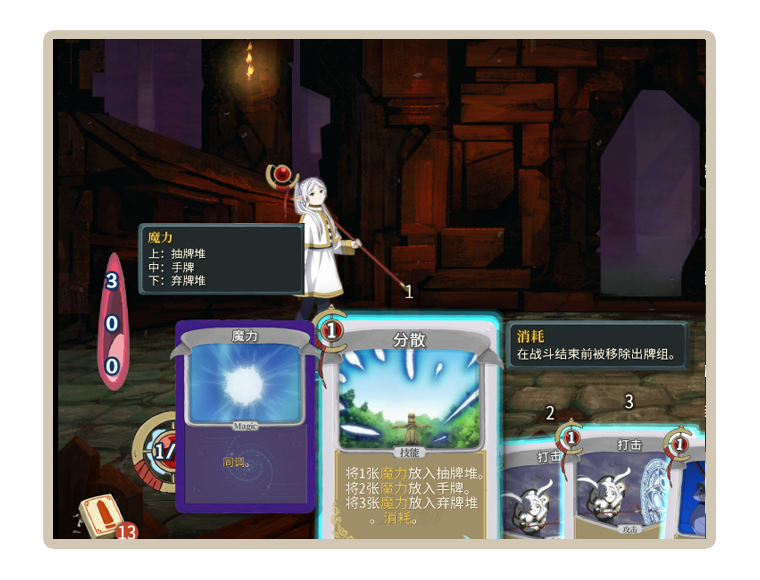
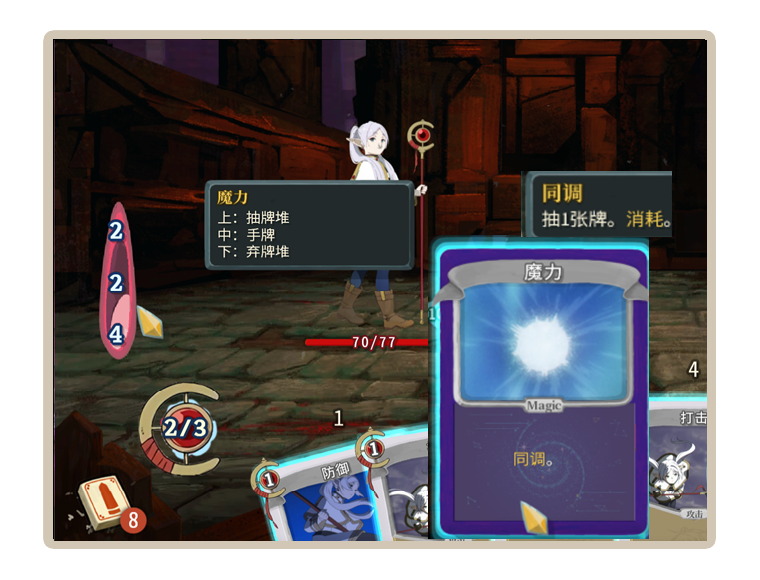
教学重做

diff --git a/src/main/java/FrierenMod/events/ReadingGrimoireEvent.java b/src/main/java/FrierenMod/events/ReadingGrimoireEvent.java
@@ -1,9 +1,11 @@
 package FrierenMod.events;
 
 import FrierenMod.cards.magicItems.AbstractMagicItem;
+import FrierenMod.cards.magicItems.props.Tutorial;
 import FrierenMod.cards.magicItems.props.UnbelievableTool;
 import FrierenMod.effects.FastMagicItemObtainEffect;
 import FrierenMod.gameHelpers.CardPoolHelper;
+import FrierenMod.utils.Config;
 import FrierenMod.utils.ModInformation;
 import basemod.ReflectionHacks;
 import com.megacrit.cardcrawl.core.CardCrawlGame;
@@ -11,6 +13,7 @@ import com.megacrit.cardcrawl.dungeons.AbstractDungeon;
 import com.megacrit.cardcrawl.events.AbstractImageEvent;
 import com.megacrit.cardcrawl.events.GenericEventDialog;
 import com.megacrit.cardcrawl.events.RoomEventDialog;
+import com.megacrit.cardcrawl.helpers.TipTracker;
 import com.megacrit.cardcrawl.localization.EventStrings;
 import com.megacrit.cardcrawl.map.MapRoomNode;
 import com.megacrit.cardcrawl.neow.NeowEvent;
@@ -18,6 +21,8 @@ import com.megacrit.cardcrawl.neow.NeowRoom;
 import com.megacrit.cardcrawl.screens.CardRewardScreen;
 import com.megacrit.cardcrawl.vfx.AbstractGameEffect;
 import com.megacrit.cardcrawl.vfx.InfiniteSpeechBubble;
+
+import static FrierenMod.utils.FTUEUtils.COMBAT_TIP_KEY;
 
 public class ReadingGrimoireEvent extends AbstractImageEvent {
     public static String ID = ModInformation.makeID(ReadingGrimoireEvent.class.getSimpleName());
@@ -49,7 +54,7 @@ public class ReadingGrimoireEvent extends AbstractImageEvent {
                     this.imageEventText.clearAllDialogs();
                     this.imageEventText.setDialogOption(EVENT_STRINGS.OPTIONS[1]);
                     AbstractDungeon.cardRewardScreen.chooseOneOpen(CardPoolHelper.getBasicMagicItems(0));
-                    ReflectionHacks.setPrivate(AbstractDungeon.cardRewardScreen, CardRewardScreen.class,"chooseOne",false);
+                    ReflectionHacks.setPrivate(AbstractDungeon.cardRewardScreen, CardRewardScreen.class, "chooseOne", false);
                     AbstractDungeon.dynamicBanner.hide();
                     AbstractDungeon.dynamicBanner.appear(EVENT_STRINGS.DESCRIPTIONS[4]);
                     return;
@@ -63,7 +68,7 @@ public class ReadingGrimoireEvent extends AbstractImageEvent {
                     this.imageEventText.clearAllDialogs();
                     this.imageEventText.setDialogOption(EVENT_STRINGS.OPTIONS[2]);
                     AbstractDungeon.cardRewardScreen.chooseOneOpen(CardPoolHelper.getBasicMagicItems(1));
-                    ReflectionHacks.setPrivate(AbstractDungeon.cardRewardScreen, CardRewardScreen.class,"chooseOne",false);
+                    ReflectionHacks.setPrivate(AbstractDungeon.cardRewardScreen, CardRewardScreen.class, "chooseOne", false);
                     AbstractDungeon.dynamicBanner.hide();
                     AbstractDungeon.dynamicBanner.appear(EVENT_STRINGS.DESCRIPTIONS[5]);
                     return;
@@ -77,7 +82,7 @@ public class ReadingGrimoireEvent extends AbstractImageEvent {
                     this.imageEventText.clearAllDialogs();
                     this.imageEventText.setDialogOption(EVENT_STRINGS.OPTIONS[3]);
                     AbstractDungeon.cardRewardScreen.chooseOneOpen(CardPoolHelper.getBasicMagicItems(2));
-                    ReflectionHacks.setPrivate(AbstractDungeon.cardRewardScreen, CardRewardScreen.class,"chooseOne",false);
+                    ReflectionHacks.setPrivate(AbstractDungeon.cardRewardScreen, CardRewardScreen.class, "chooseOne", false);
                     AbstractDungeon.dynamicBanner.hide();
                     AbstractDungeon.dynamicBanner.appear(EVENT_STRINGS.DESCRIPTIONS[6]);
                     return;
@@ -85,11 +90,16 @@ public class ReadingGrimoireEvent extends AbstractImageEvent {
                 return;
             case 3:
                 if (buttonPressed == 0) {
-                    this.state = 4;
+                    this.imageEventText.clearAllDialogs();
+                    if (!(Boolean) TipTracker.tips.get(COMBAT_TIP_KEY) || Config.IN_DEV) {
+                        this.state = 5;
+                        this.imageEventText.setDialogOption(EVENT_STRINGS.OPTIONS[5]);
+                    } else {
+                        this.state = 4;
+                        this.imageEventText.setDialogOption(EVENT_STRINGS.OPTIONS[4]);
+                    }
                     this.imageEventText.loadImage("FrierenModResources/img/events/Beta.png");
                     this.imageEventText.updateBodyText(EVENT_STRINGS.DESCRIPTIONS[3]);
-                    this.imageEventText.clearAllDialogs();
-                    this.imageEventText.setDialogOption(EVENT_STRINGS.OPTIONS[4]);
                     AbstractDungeon.effectList.add(new FastMagicItemObtainEffect(new UnbelievableTool()));
                     AbstractDungeon.effectList.add(new FastMagicItemObtainEffect(CardPoolHelper.getRandomMagicItem(AbstractMagicItem.MagicItemRarity.PROP)));
                     return;
@@ -122,6 +132,17 @@ public class ReadingGrimoireEvent extends AbstractImageEvent {
                     AbstractDungeon.getCurrRoom().onPlayerEntry();
                     AbstractDungeon.scene.nextRoom(this.node.room);
                     AbstractDungeon.currMapNode.setRoom(new NeowRoom(false));
+                }
+                return;
+            case 5:
+                if (buttonPressed == 0) {
+                    this.state = 4;
+                    this.imageEventText.loadImage("FrierenModResources/img/events/Beta.png");
+                    this.imageEventText.updateBodyText(EVENT_STRINGS.DESCRIPTIONS[3]);
+                    this.imageEventText.clearAllDialogs();
+                    this.imageEventText.setDialogOption(EVENT_STRINGS.OPTIONS[4]);
+                    AbstractDungeon.effectList.add(new FastMagicItemObtainEffect(new Tutorial()));
+                    return;
                 }
                 return;
         }

diff --git a/src/main/java/FrierenMod/utils/FTUEUtils.java b/src/main/java/FrierenMod/utils/FTUEUtils.java
@@ -1,26 +1,32 @@
 package FrierenMod.utils;
 
-import FrierenMod.utils.ModInformation;
 import basemod.abstracts.CustomMultiPageFtue;
 import com.badlogic.gdx.graphics.Texture;
 import com.megacrit.cardcrawl.core.CardCrawlGame;
+import com.megacrit.cardcrawl.core.Settings;
 import com.megacrit.cardcrawl.dungeons.AbstractDungeon;
 import com.megacrit.cardcrawl.helpers.ImageMaster;
 import com.megacrit.cardcrawl.helpers.TipTracker;
 import com.megacrit.cardcrawl.localization.UIStrings;
-import com.megacrit.cardcrawl.ui.FtueTip;
+
+import static com.megacrit.cardcrawl.core.Settings.language;
 
 public class FTUEUtils {
-    public static final String COMBAT_TIP_KEY = ModInformation.makeID("COMBAT_TIP");
+    public static final String COMBAT_TIP_KEY = ModInformation.makeID("FRIEREN_COMBAT_TIP");
 
     private static final UIStrings uiStrings = CardCrawlGame.languagePack.getUIString(ModInformation.makeID("FTUE"));
 
-    private static final Texture[] TEXTURES = new Texture[] { ImageMaster.loadImage(FrierenRes.TIP_01),
-            ImageMaster.loadImage(FrierenRes.TIP_02) };
+    private static final Texture[] TEXTURES_ZHS = new Texture[]{ImageMaster.loadImage(FrierenRes.TIP_01_ZHS),
+            ImageMaster.loadImage(FrierenRes.TIP_02_ZHS), ImageMaster.loadImage(FrierenRes.TIP_03_ZHS)};
+    private static final Texture[] TEXTURES_ENG = new Texture[]{ImageMaster.loadImage(FrierenRes.TIP_01_ENG),
+            ImageMaster.loadImage(FrierenRes.TIP_02_ENG), ImageMaster.loadImage(FrierenRes.TIP_03_ENG)};
 
     public static void openCombatTip() {
-        if (!(Boolean) TipTracker.tips.get(COMBAT_TIP_KEY)) {
-            AbstractDungeon.ftue = new CustomMultiPageFtue(TEXTURES, uiStrings.TEXT);
+        if (!(Boolean) TipTracker.tips.get(COMBAT_TIP_KEY) || Config.IN_DEV) {
+            if (language == Settings.GameLanguage.ZHS)
+                AbstractDungeon.ftue = new CustomMultiPageFtue(TEXTURES_ZHS, uiStrings.TEXT);
+            else
+                AbstractDungeon.ftue = new CustomMultiPageFtue(TEXTURES_ENG, uiStrings.TEXT);
             TipTracker.neverShowAgain(COMBAT_TIP_KEY);
         }
     }

diff --git a/src/main/java/FrierenMod/utils/ModInformation.java b/src/main/java/FrierenMod/utils/ModInformation.java
@@ -1,5 +1,7 @@
 package FrierenMod.utils;
 
+import java.util.Objects;
+
 public class ModInformation {
     public final static String MOD_NAME = "FrierenMod";
     public final static String KEY_WORD = MOD_NAME.toLowerCase();
@@ -93,6 +95,7 @@ public class ModInformation {
     public static String makeCardBannerPath(String character, String bannerType, String bannerSize) {
         return getCardStylesPath() + character + "/banners/" + "card_banner_" + bannerType + "_" + bannerSize + ".png";
     }
+
     public static String makeIconPath(String content) {
         return getUIPath() + "icons/" + content + ".png";
     }
@@ -118,11 +121,11 @@ public class ModInformation {
             return "ERROR!";
     }
 
-    public static String makeTipImgPath(String character, String tipNum) {
-//        if (language == Settings.GameLanguage.ZHS) {
-        return makeUIPath("tip/ZHS/" + character + "/tip" + tipNum);
-//        } else {
-//            return makeUIPath("tip/ENG/"+ character +"/tip" + tipNum + ".png");
-//        }
+    public static String makeTipImgPath(String character, String tipNum, String language) {
+        if (Objects.equals(language, "ZHS")) {
+            return makeUIPath("tip/ZHS/" + character + "/tip" + tipNum);
+        } else {
+            return makeUIPath("tip/ENG/" + character + "/tip" + tipNum);
+        }
     }
 }

diff --git a/src/main/java/FrierenMod/utils/FrierenRes.java b/src/main/java/FrierenMod/utils/FrierenRes.java
@@ -35,6 +35,10 @@ public class FrierenRes {
     public static final String MP_WRAP_LAYER = ModInformation.makeUIPanelPath("manaPanel/MPWrap");
     public static final String MP_WRAP_GOLDEN_LAYER = ModInformation.makeUIPanelPath("manaPanel/MPWrapGolden");
     public static final String GAIN_MP_VFX = ModInformation.makeUIPanelPath("manaPanel/GainMPVFX");
-    public static final String TIP_01 = ModInformation.makeTipImgPath(CHARACTER_NAME,"01");
-    public static final String TIP_02 = ModInformation.makeTipImgPath(CHARACTER_NAME, "02");
+    public static final String TIP_01_ZHS = ModInformation.makeTipImgPath(CHARACTER_NAME,"01","ZHS");
+    public static final String TIP_02_ZHS = ModInformation.makeTipImgPath(CHARACTER_NAME, "02","ZHS");
+    public static final String TIP_03_ZHS = ModInformation.makeTipImgPath(CHARACTER_NAME, "03","ZHS");
+    public static final String TIP_01_ENG = ModInformation.makeTipImgPath(CHARACTER_NAME,"01","ENG");
+    public static final String TIP_02_ENG = ModInformation.makeTipImgPath(CHARACTER_NAME, "02","ENG");
+    public static final String TIP_03_ENG = ModInformation.makeTipImgPath(CHARACTER_NAME, "03","ENG");
 }

diff --git a/src/main/java/FrierenMod/cards/magicItems/props/Tutorial.java b/src/main/java/FrierenMod/cards/magicItems/props/Tutorial.java
@@ -1,0 +1,26 @@
+package FrierenMod.cards.magicItems.props;
+
+import FrierenMod.cards.magicItems.AbstractMagicItem;
+import FrierenMod.utils.ModInformation;
+import com.megacrit.cardcrawl.cards.AbstractCard;
+
+import java.util.ArrayList;
+
+public class Tutorial extends AbstractMagicItem {
+    public static final String ID = ModInformation.makeID(Tutorial.class.getSimpleName());
+
+    public Tutorial() {
+        super(ID);
+        loadRarity(MagicItemRarity.PROP);
+        this.propCanChooseMaxAmt = 1;
+        this.tags.add(Enum.NEVER_DROP);
+    }
+
+    public boolean propTakeEffect(ArrayList<AbstractCard> chosenCards) {
+        for (AbstractCard c : chosenCards) {
+            if (c == this)
+                return false;
+        }
+        return chosenCards.size() == propCanChooseMaxAmt;
+    }
+}

diff --git a/src/main/java/FrierenMod/utils/FernRes.java b/src/main/java/FrierenMod/utils/FernRes.java
@@ -32,6 +32,6 @@ public class FernRes {
     public static final String MP_WRAP_LAYER = ModInformation.makeUIPanelPath("FernPanel/MPWrap");
     public static final String MP_WRAP_PINK_LAYER = ModInformation.makeUIPanelPath("FernPanel/MPWrapPink");
     public static final String GAIN_MP_VFX = ModInformation.makeUIPanelPath("FernPanel/GainMPVFX");
-    public static final String TIP_01 = ModInformation.makeTipImgPath(CHARACTER_NAME,"01");
-    public static final String TIP_02 = ModInformation.makeTipImgPath(CHARACTER_NAME, "02");
+//    public static final String TIP_01 = ModInformation.makeTipImgPath(CHARACTER_NAME,"01");
+//    public static final String TIP_02 = ModInformation.makeTipImgPath(CHARACTER_NAME, "02");
 }

diff --git a/src/main/java/FrierenMod/gameHelpers/CardPoolHelper.java b/src/main/java/FrierenMod/gameHelpers/CardPoolHelper.java
@@ -130,6 +130,7 @@ public class CardPoolHelper {
         ArrayList<AbstractCard> list = getMagicItemCardPool(rarity);
         if(RandomField.getMagicItemRng().random(100) > 20)
             list.removeIf(card -> card.hasTag(AbstractBaseCard.Enum.LESS_CHANCE_TO_MEET));
+        list.removeIf(card -> card.hasTag(AbstractBaseCard.Enum.NEVER_DROP));
         return list.get(RandomField.getMagicItemRng().random(list.size() - 1));
     }
 

diff --git a/src/main/java/FrierenMod/cards/AbstractBaseCard.java b/src/main/java/FrierenMod/cards/AbstractBaseCard.java
@@ -227,6 +227,8 @@ public abstract class AbstractBaseCard extends CustomCard {
         public static AbstractCard.CardTags CAN_NOT_RANDOM_GENERATED_IN_COMBAT;
         @SpireEnum
         public static AbstractCard.CardTags LESS_CHANCE_TO_MEET;
+        @SpireEnum
+        public static AbstractCard.CardTags NEVER_DROP;
     }
 
     protected static TextureAtlas.AtlasRegion getImg(Texture texture) {
